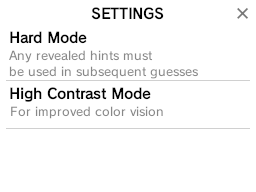
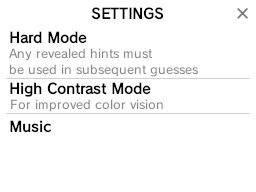
Make music togglable

Changed region(s): [[0.0312, 0.3438, 0.9688, 0.6875], [0.0312, 0.25, 0.5938, 0.3438]]

diff --git a/source/settings.cpp b/source/settings.cpp
@@ -8,11 +8,13 @@
 
 #include "bgBottom.h"
 #include "settingsBottom.h"
+#include "soundbank.h"
 #include "toggleOn.h"
 #include "toggleOff.h"
 
-#include <array>
 #include <algorithm>
+#include <array>
+#include <maxmod9.h>
 #include <nds.h>
 
 void settingsMenu(Config &config) {
@@ -33,9 +35,11 @@ void settingsMenu(Config &config) {
 	tonccpy(toggleOffGfx, toggleOffTiles, toggleOffTilesLen);
 
 	Sprite hardToggle(false, SpriteSize_32x16, SpriteColorFormat_16Color);
-	hardToggle.move(224, 41);
+	hardToggle.move(224, 47);
 	Sprite colorToggle(false, SpriteSize_32x16, SpriteColorFormat_16Color);
-	colorToggle.move(224, 97);
+	colorToggle.move(224, 89);
+	Sprite musicToggle(false, SpriteSize_32x16, SpriteColorFormat_16Color);
+	musicToggle.move(224, 120);
 
 	while(1) {
 		setPalettes(config.altPalette());
@@ -45,6 +49,9 @@ void settingsMenu(Config &config) {
 		colorToggle
 			.gfx(config.altPalette() ? toggleOnGfx : toggleOffGfx)
 			.palette(config.altPalette() ? TilePalette::green : TilePalette::gray);
+		musicToggle
+			.gfx(config.music() ? toggleOnGfx : toggleOffGfx)
+			.palette(config.music() ? TilePalette::green : TilePalette::gray);
 		Sprite::update(false);
 
 		u16 pressed;
@@ -64,11 +71,19 @@ void settingsMenu(Config &config) {
 			if(touch.px > 232 && touch.py < 24) { // X
 				break;
 			} else if(touch.px >= 224 && touch.px <= 245) { // Toggle
-				if(touch.py >= 41 && touch.py <= 54) {
+				if(touch.py >= 47 && touch.py <= (47 + 13)) {
 					if(config.boardState().size() == 0) // Can't toggle mid-game
 						config.hardMode(!config.hardMode());
-				} else if(touch.py >= 97 && touch.py <= 110) {
+				} else if(touch.py >= 89 && touch.py <= (89 + 13)) {
 					config.altPalette(!config.altPalette());
+				} else if(touch.py >= 120 && touch.py <= (120 + 13)) {
+					config.music(!config.music());
+					if(config.music()) {
+						mmStart(MOD_MUSIC, MM_PLAY_LOOP);
+					} else {
+						mmStop();
+						mmStop(); // yes, this *is* needed
+					}
 				}
 			}
 		}

diff --git a/source/config.cpp b/source/config.cpp
@@ -49,6 +49,8 @@ Config::Config(const std::string &path) : _path(path) {
 			_hardMode = json["settings"]["hardMode"];
 		if(json["settings"].contains("altPalette") && json["settings"]["altPalette"].is_boolean())
 			_altPalette = json["settings"]["altPalette"];
+		if(json["settings"].contains("music") && json["settings"]["music"].is_boolean())
+			_music = json["settings"]["music"];
 	}
 }
 
@@ -64,7 +66,8 @@ void Config::save() {
 		}},
 		{"settings", {
 			{"hardMode", _hardMode},
-			{"altPalette", _altPalette}
+			{"altPalette", _altPalette},
+			{"music", _music}
 		}}
 	});
 

diff --git a/include/config.hpp b/include/config.hpp
@@ -19,6 +19,7 @@ class Config {
 	// Settings
 	bool _hardMode = false;
 	bool _altPalette = false;
+	bool _music = true;
 
 public:
 	Config(const std::string &path);
@@ -46,6 +47,8 @@ public:
 	Config &hardMode(bool hardMode) { _hardMode = hardMode; return *this; }
 	bool altPalette(void) const { return _altPalette; }
 	Config &altPalette(bool altPalette) { _altPalette = altPalette; return *this; }
+	bool music(void) const { return _music; }
+	Config &music(bool music) { _music = music; return *this; }
 };
 
 #endif // CONFIG_HPP

diff --git a/source/main.cpp b/source/main.cpp
@@ -16,16 +16,18 @@ Game *game;
 int main() {
 	bool fatInited = fatInitDefault();
 
+	initGraphics();
+	game = new Game();
+
+	// Load music
 	if(access(MUSIC_PATH, F_OK) == 0)
 		mmInitDefault((char *)MUSIC_PATH);
 	else
 		mmInitDefaultMem((mm_addr)soundbank_bin);
 	mmLoad(MOD_MUSIC);
 	mmSetModuleVolume(800);
-	mmStart(MOD_MUSIC, MM_PLAY_LOOP);
-
-	initGraphics();
-	game = new Game();
+	if(game->config().music())
+		mmStart(MOD_MUSIC, MM_PLAY_LOOP);
 
 	// Show howto if first game
 	if(game->config().gamesPlayed() < 1)
